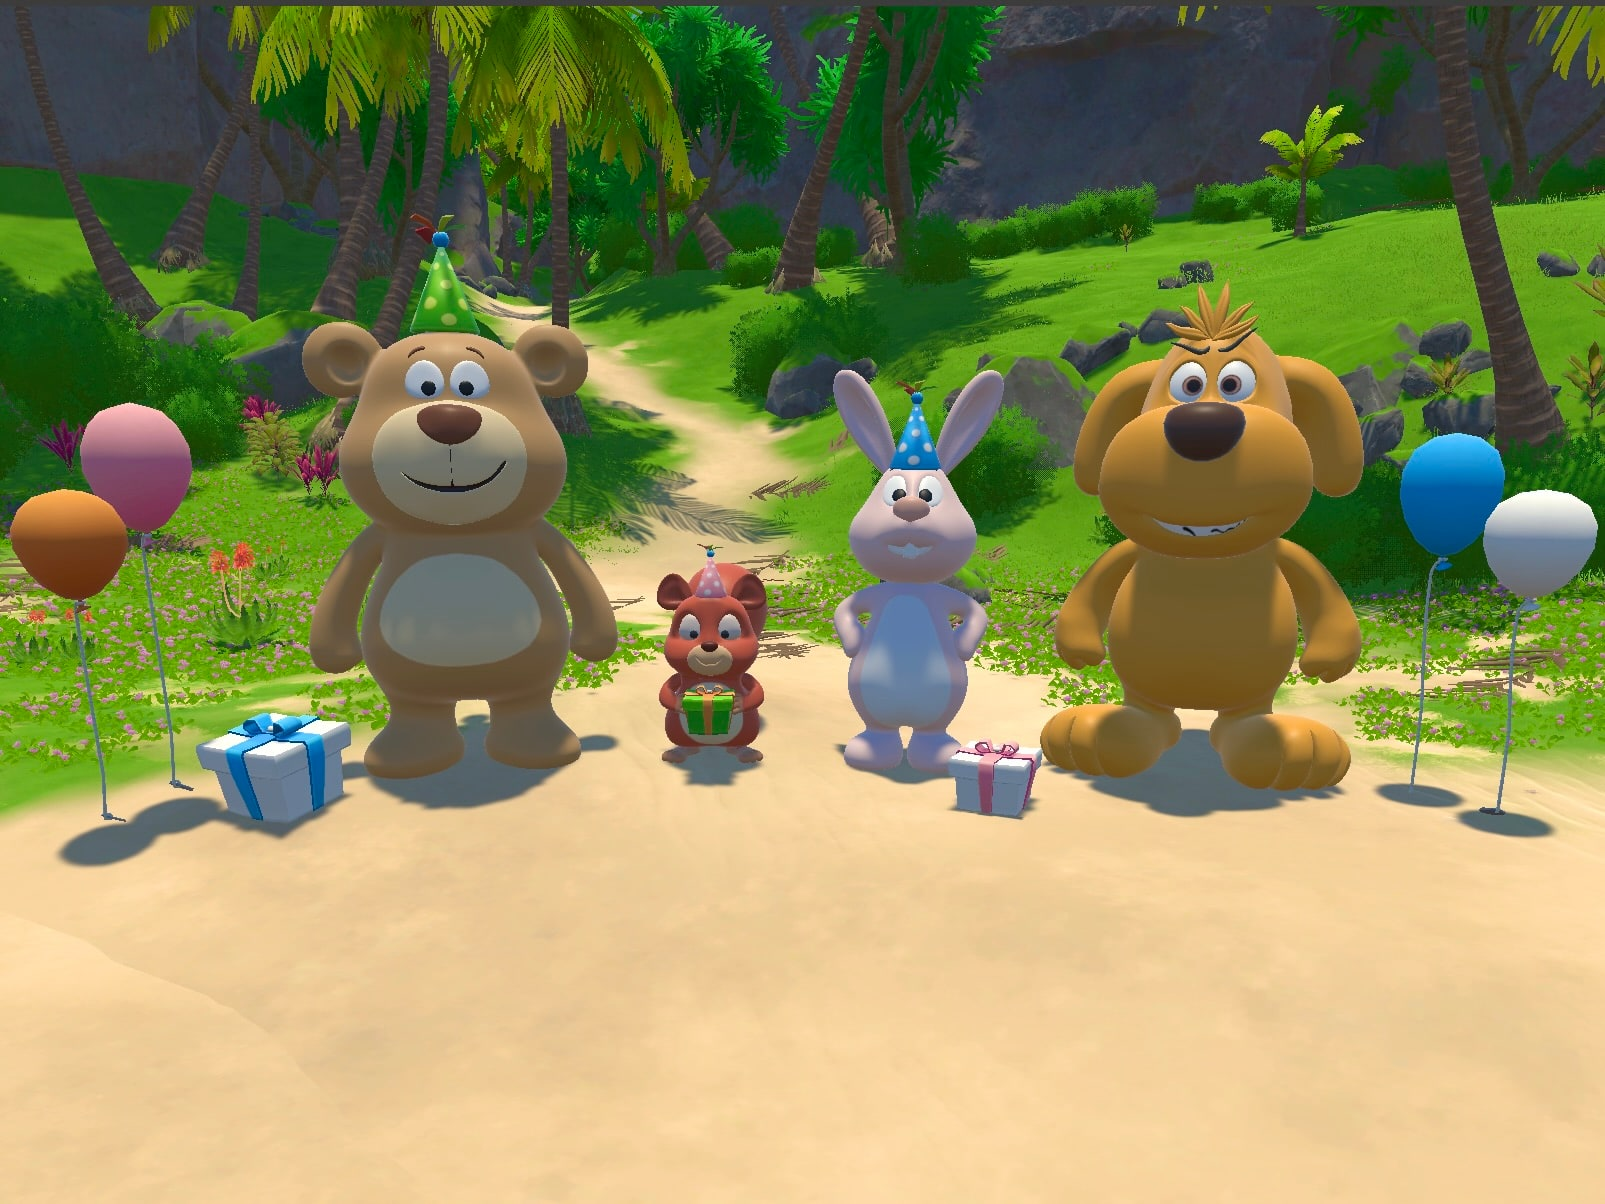
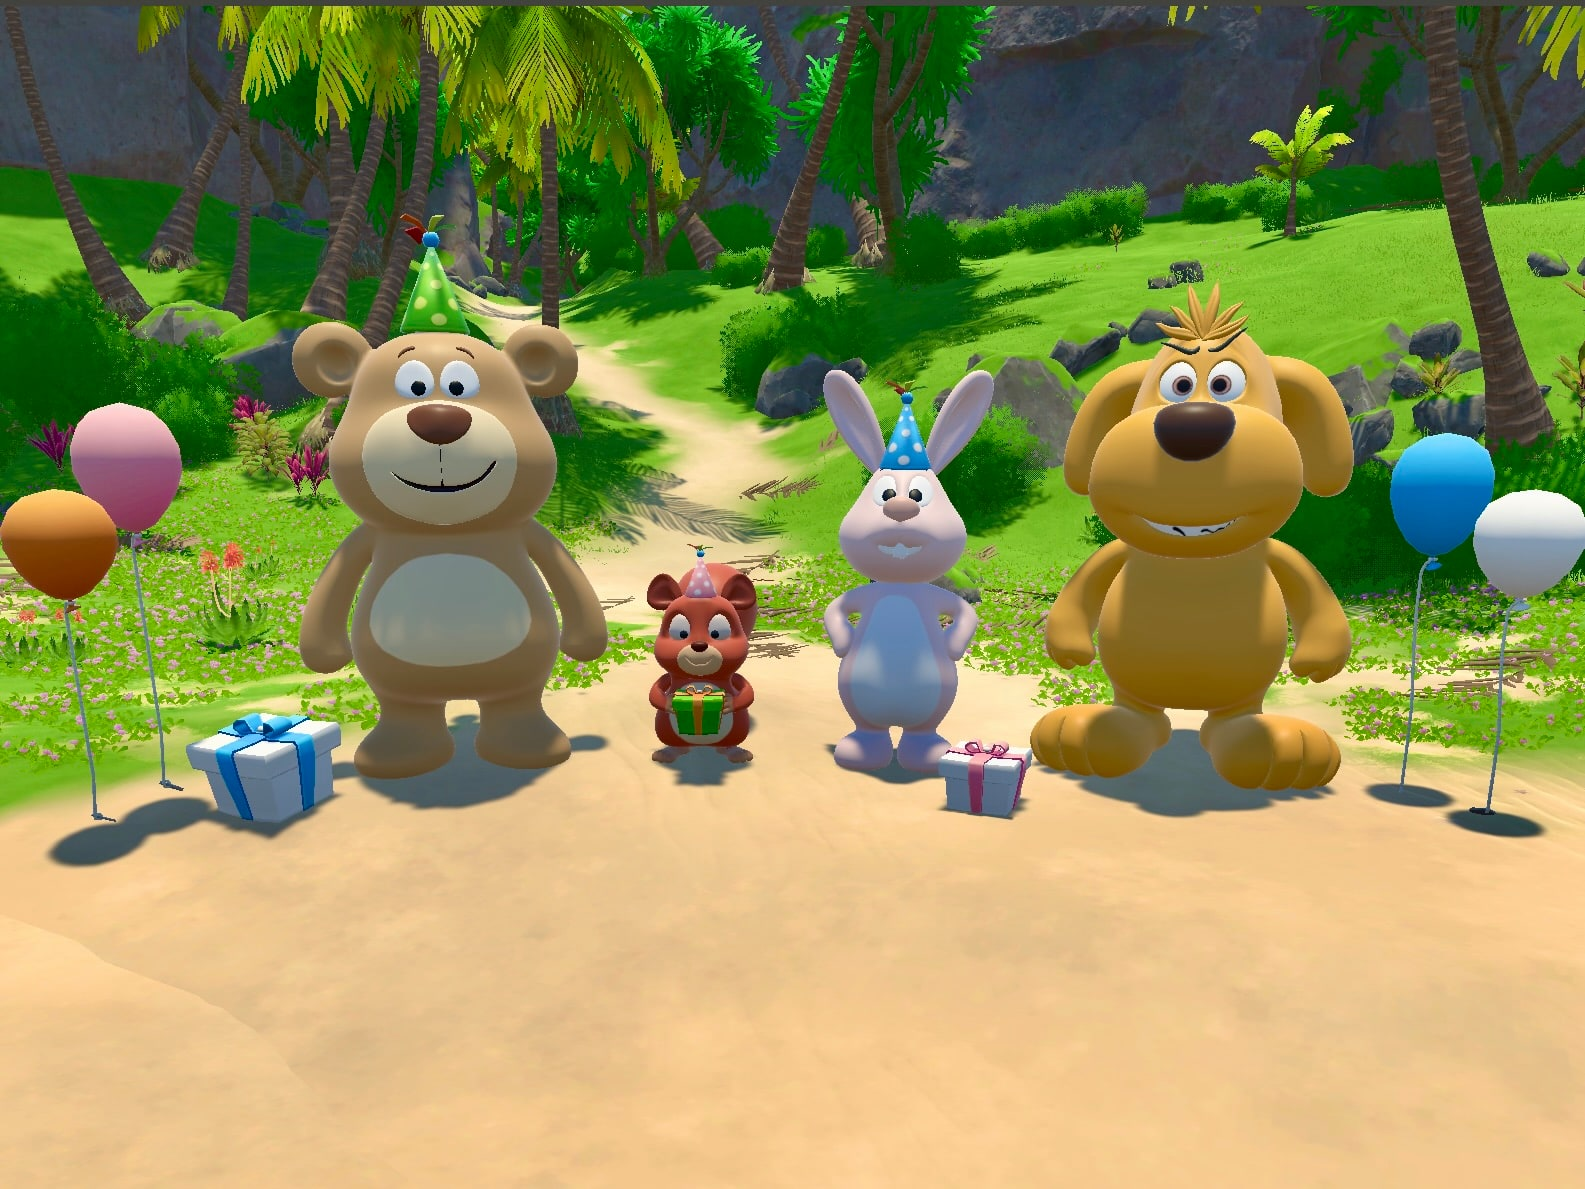
Buddy's Adventure Island: update cover image
Claude-Session: https://claude.ai/code/session_016JipU5KkSJDLw1FRNbE3mb

diff --git a/OPEN-ITEMS.md b/OPEN-ITEMS.md
@@ -34,7 +34,7 @@ Tick an item (`[x]`) when it's done.
 - [ ] No photos of real, named children anywhere on the page
 - [ ] Check each image's alt text matches the real export once it's in
 - [ ] Replace the 16 labeled grey placeholder images in `content/images/buddys-adventure-island/` with Figma exports (same file names):
-  - [x] `cover.jpg` — game scene (party on the island) — added, 4:3, 1605 × 1204 px
+  - [x] `cover.jpg` — game scene (party on the island) — added, 4:3, 1585 × 1189 px
   - [ ] `research-signs.png` — signs & symptoms (Age 3–5 / Age 6+)
   - [ ] `research-interventions.png` — existing interventions (3 approaches)
   - [ ] `scene-map.png` — game scene map
